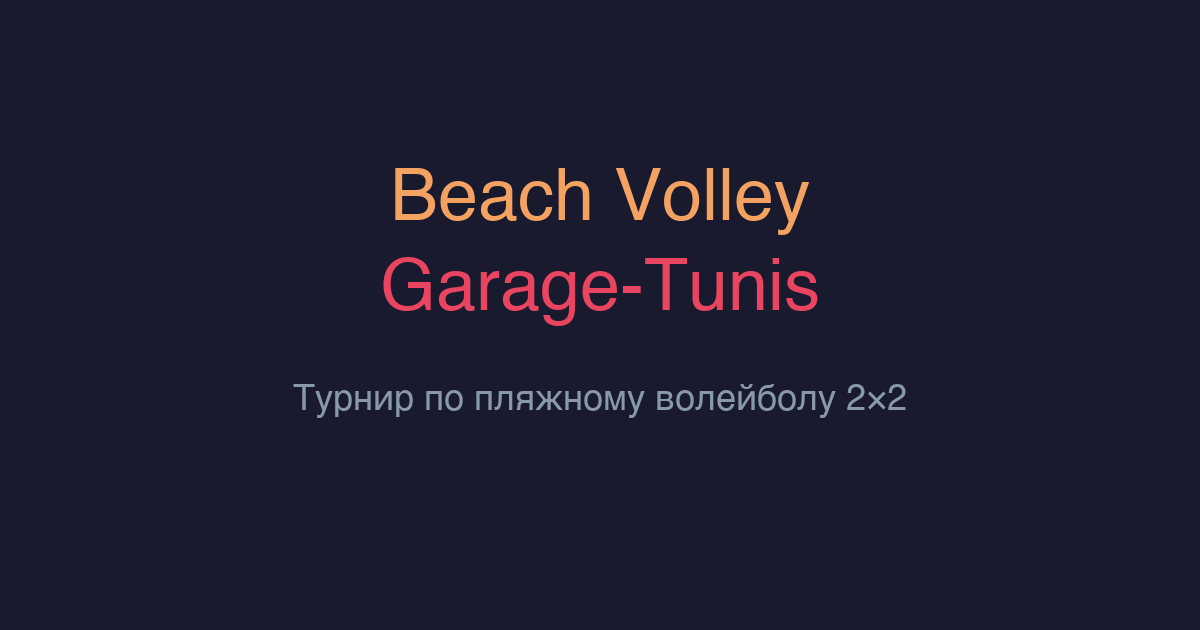
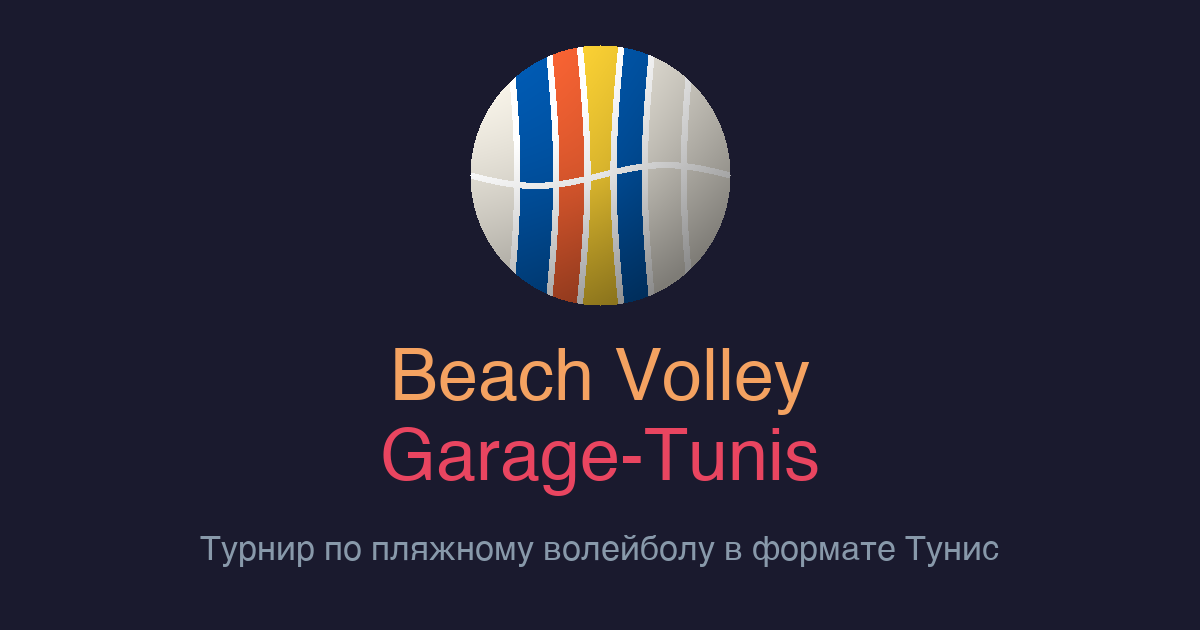
Update OG preview: new description, larger ball, hide domain

Changed region(s): [[0.3083, 0.0603, 0.6783, 0.5127], [0.2467, 0.5429, 0.7708, 0.7841], [0.1542, 0.8444, 0.8325, 0.9048]]

diff --git a/index.html b/index.html
@@ -5,8 +5,9 @@
 <meta name="viewport" content="width=device-width, initial-scale=1.0, user-scalable=no">
 <title>Beach Volley Garage-Tunis</title>
 <meta name="description" content="Организуй турнир по пляжному волейболу 2×2 на 5-6 игроков. Автоматическое расписание, подсчёт очков и таблица лидеров.">
-<meta property="og:title" content="Beach Volley Garage-Tunis 🏐">
-<meta property="og:description" content="Турнир по пляжному волейболу 2×2. Введи имена — получи расписание, веди счёт, определи чемпиона!">
+<meta property="og:title" content="Beach Volley Garage-Tunis">
+<meta property="og:description" content="Турнир по пляжному волейболу в формате Тунис">
+<meta property="og:site_name" content="Beach Volley Garage-Tunis">
 <meta property="og:type" content="website">
 <meta property="og:url" content="https://igormishin.github.io/garage-tunis/">
 <meta property="og:image" content="https://igormishin.github.io/garage-tunis/og-image.png">
